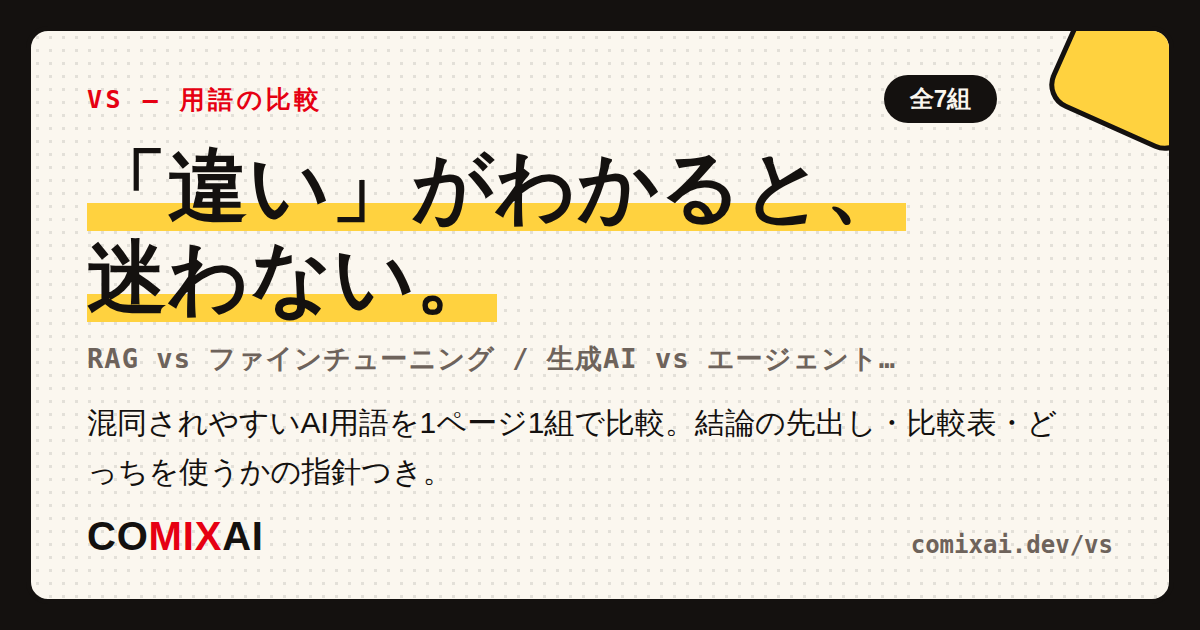
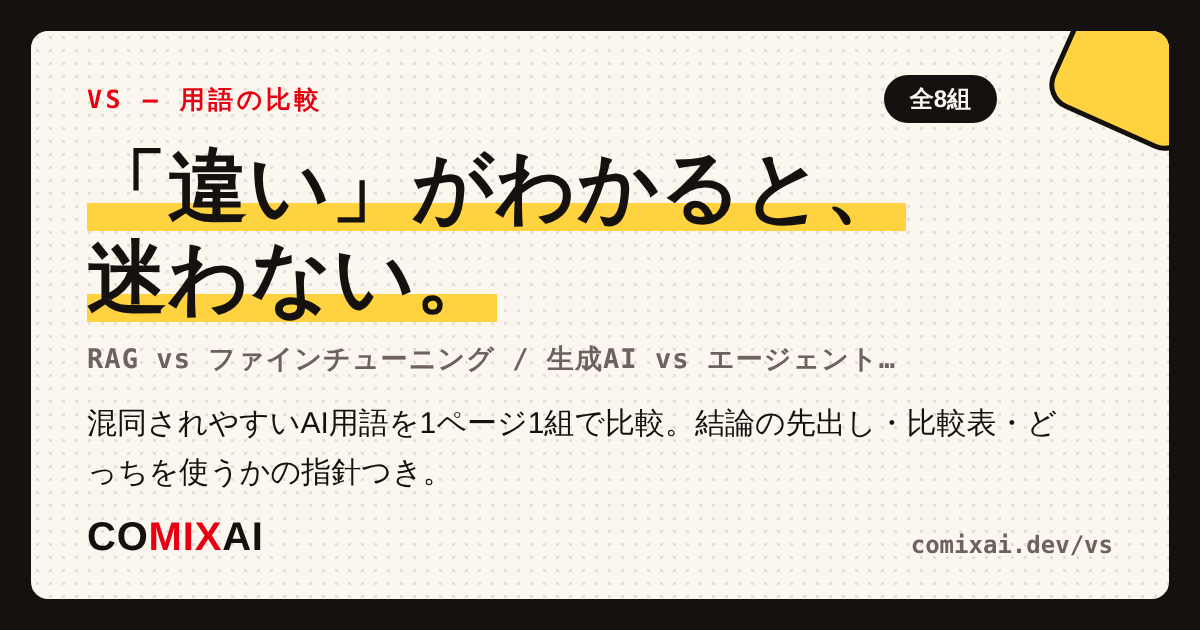
feat: 比較ページに「エッジAIとローカルLLMの違い」を追加
ローカルLLMが直近（10/12）に追記更新された話題ワードで、定番の
混同ペアでもあるため選定。verdict／比較表6観点／使い分け／FAQ3問。
OGPは新規の edge-ai-vs-local-llm.png と index.png のみ更新。

Claude-Session: https://claude.ai/code/session_01S4i7KvmcRV6C8UgcMNEjXV

diff --git a/src/app/vs/data.ts b/src/app/vs/data.ts
@@ -44,7 +44,7 @@ export interface VsPair {
   lastUpdated: string;
 }
 
-export const VS_UPDATED = "2026-10-12";
+export const VS_UPDATED = "2026-10-14";
 
 export const VS_PAIRS: VsPair[] = [
   {
@@ -360,6 +360,54 @@ export const VS_PAIRS: VsPair[] = [
       { label: "体験ゲーム：AIエージェントに任せてみた（任せ方の違いを体感）", href: "/agent" },
     ],
     lastUpdated: "2026-10-12",
+  },
+  {
+    slug: "edge-ai-vs-local-llm",
+    aSlug: "edge-ai",
+    bSlug: "local-llm",
+    aName: "エッジAI",
+    bName: "ローカルLLM",
+    title: "エッジAIとローカルLLMの違い",
+    short:
+      "どちらも「クラウドに送らず手元でAIを動かす」話ですが、エッジAIは機器の中でAIを動かすこと全般の総称、ローカルLLMは言葉のAIを自分のPCやサーバーで動かす方式。重なりと違いを整理します。",
+    verdict:
+      "エッジAIは「機器に住み込むAI」の総称、ローカルLLMは「言葉のAI（LLM）を自前の機械で動かす」具体的な方法。スマホの写真認識は前者、PCに入れて使う自分専用のチャットAIは後者で、スマホの中で動く小さなLLMは両方に当てはまります。",
+    lead: [
+      "「データを外に送らない」「ネットがなくても動く」。同じ売り文句で登場するため混ざりやすい2つの言葉ですが、指している範囲が違います。エッジAIの「エッジ」はネットワークの端っこ、つまり手元の機器のこと。スマホの写真認識、カメラの異常検知、録音の文字起こしなど、クラウドに頼らず機器の中でAIを動かす話の総称で、言葉を扱わないAIも主力メンバーです。",
+      "ローカルLLMは、ChatGPTやClaudeのような言葉のAI（LLM）を、クラウドのAPIではなく自分のPCや自社サーバーで動かす方式を指します。つまり「機器で動くAIすべて」対「言葉のAIを自前で動かす」という範囲の違いで、スマホやノートPCの中で小さなLLMが動く場面では2つが重なります。2026年10月時点では、まさにこの重なりの部分——意識せず使えるオンデバイスの言葉のAI——が広がっている最中です。",
+    ],
+    rows: [
+      { point: "言葉の範囲", a: "機器の中でAIを動かすこと全般（総称）", b: "LLMを自前の機械で動かす方式（具体的な方法）" },
+      { point: "たとえるなら", a: "機器に住み込む現場担当", b: "自前で雇った言葉の専門家" },
+      { point: "主な仕事", a: "画像認識・音声処理・異常検知など幅広い", b: "文章の生成・要約・翻訳など言葉の仕事" },
+      { point: "動く場所", a: "スマホ・カメラ・センサーなど末端の機器", b: "自分のPCや自社サーバー（末端機器とは限らない）" },
+      { point: "出会い方", a: "製品の機能として最初から入っている", b: "自分でアプリとモデルを選んで入れる" },
+      { point: "共通の狙い", a: "データを外に出さない・速い・通信費ゼロ", b: "同じ。加えてAPI課金なし・自由に改造できる" },
+    ],
+    usage: [
+      "使い分けというより「どちらの言葉で考えるべきか」の整理が実務では役立ちます。判断の軸は「自分で用意するかどうか」です。スマホのAI機能やAI PCのように、買った機器に最初から入っていて恩恵だけ受けるものは、エッジAIという枠で捉えれば十分。一方「機密文書をAIに読ませたいがクラウドには送れない」のような要件から出発して、自分でモデルを選んで環境を作るなら、調べるべき言葉はローカルLLMです（始め方やスペックの目安は用語集のローカルLLMの項にまとめてあります）。",
+      "2026年10月時点の動きとして、この2つの重なり——端末の中で動く言葉のAI——が急速に実用化しています。AppleやGoogleがスマホやPCに小型モデルを組み込み、利用者が「ローカルLLMを使っている」と意識しない形のアプリも出てきました。ニュースでこの話題を見たら、「どこで動くか（機器の中か、自社サーバーか、クラウドか）」と「何を扱うか（言葉か、画像や音か）」の2軸に置いてみると、言葉に振り回されずに済みます。",
+    ],
+    faq: [
+      {
+        q: "ローカルLLMはエッジAIの一種ですか？",
+        a: "重なりますが、完全な入れ子ではありません。手元のPCやスマホで動かすローカルLLMはエッジAIの一例といえます。ただし自社サーバーで動かす形（オンプレミス）もローカルLLMに含まれ、これは「末端の機器」というエッジのイメージからは外れます。資料によって定義が揺れる言葉なので、読むときは文脈で確認するのが安全です。",
+      },
+      {
+        q: "AI PCやスマホのAI機能はどちらに当たりますか？",
+        a: "エッジAIです。搭載された専用チップ（NPU）が、写真の認識や通訳などを端末の中で処理しています。その機能の中身として小型の言語モデル（SLM）が動いている場合は、ローカルLLMの一形態でもある、という関係になります。",
+      },
+      {
+        q: "どちらもクラウドより安く使えますか？",
+        a: "月額やAPIの課金はかからない一方、動かす機械の性能（メモリなど）と電気代は自分持ちです。大量に処理する用途ではクラウドより安くつくことがありますが、最高性能のクラウドモデルほどの賢さは期待できません。「賢さの最高値」より「データを外に出せない」が要件のときに選ぶ、という整理が実務的です。",
+      },
+    ],
+    links: [
+      { label: "連載「AI時代の流行と本質」シリーズ紹介", href: "/manga/honshitsu" },
+      { label: "用語：AI PC（エッジAIのいちばん身近な入口）", href: "/glossary/ai-pc" },
+      { label: "用語：SLM（端末で動く小さな言語モデル）", href: "/glossary/slm" },
+    ],
+    lastUpdated: "2026-10-14",
   },
 ];
 
